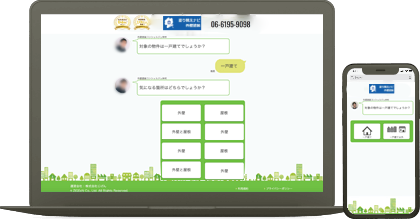
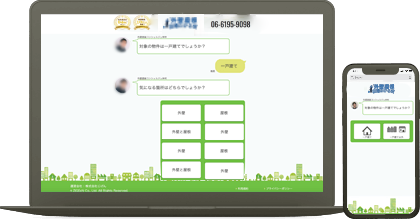
update

Changed region(s): [[0.3714, 0.0548, 0.4952, 0.1644], [0.8667, 0.3836, 0.9595, 0.4384]]

diff --git a/index.htm b/index.htm
@@ -55,7 +55,7 @@
 			</div>
 			<div class="img-info">
 				<a target="_top"> <img src="assets/images/info.png" alt="外壁塗装コンシェルジュ" class="img-responsive"
-						style="scale:0.6;">
+						>
 				</a>
 			</div>
 		</header>
@@ -70,7 +70,7 @@
 							<div class="question chat" id="start_question">
 								<p class="icon"><img src="assets/images/img-nakamura.png"></p>
 								<div class="man_txt">
-									<span>外壁塗装コンシェルジュ仲村</span>
+									<span>外壁塗装コンシェルジュ山田</span>
 									<p>対象の物件は一戸建てでしょうか？</p>
 								</div>
 							</div>
@@ -139,7 +139,7 @@
 							<div class="question chat" id="start_question">
 								<p class="icon"><img src="assets/images/img-nakamura.png"></p>
 								<div class="man_txt">
-									<span>外壁塗装コンシェルジュ仲村</span>
+									<span>外壁塗装コンシェルジュ山田</span>
 									<p>どのような工事をご希望ですか？</p>
 								</div>
 							</div>
@@ -208,7 +208,7 @@
 							<div class="question chat" id="start_question">
 								<p class="icon"><img src="assets/images/img-nakamura.png"></p>
 								<div class="man_txt">
-									<span>外壁塗装コンシェルジュ仲村</span>
+									<span>外壁塗装コンシェルジュ山田</span>
 									<p>目的はどちらになりますか？</p>
 								</div>
 							</div>
@@ -264,7 +264,7 @@
 							<div class="question chat" id="start_question">
 								<p class="icon"><img src="assets/images/img-nakamura.png"></p>
 								<div class="man_txt">
-									<span>外壁塗装コンシェルジュ仲村</span>
+									<span>外壁塗装コンシェルジュ山田</span>
 									<p>ありがとうございます。<br>質問終了まであと少しです！</p>
 								</div>
 							</div>
@@ -275,7 +275,7 @@
 							<div class="question chat" id="start_question">
 								<p class="icon"><img src="assets/images/img-nakamura.png"></p>
 								<div class="man_txt">
-									<span>外壁塗装コンシェルジュ仲村</span>
+									<span>外壁塗装コンシェルジュ山田</span>
 									<p>物件は何階建てですか？</p>
 								</div>
 							</div>
@@ -319,7 +319,7 @@
 							<div class="question chat" id="start_question">
 								<p class="icon"><img src="assets/images/img-nakamura.png"></p>
 								<div class="man_txt">
-									<span>外壁塗装コンシェルジュ仲村</span>
+									<span>外壁塗装コンシェルジュ山田</span>
 									<p>延床面積は、<br class="resSp">大体どのくらいですか？</p>
 								</div>
 							</div>
@@ -396,7 +396,7 @@
 							<div class="question chat" id="start_question">
 								<p class="icon"><img src="assets/images/img-nakamura.png"></p>
 								<div class="man_txt">
-									<span>外壁塗装コンシェルジュ仲村</span>
+									<span>外壁塗装コンシェルジュ山田</span>
 									<p>外壁材は<br class="resSp">どちらかおわかりでしょうか？</p>
 								</div>
 							</div>
@@ -469,7 +469,7 @@
 							<div class="question chat" id="start_question">
 								<p class="icon"><img src="assets/images/img-nakamura.png"></p>
 								<div class="man_txt">
-									<span>外壁塗装コンシェルジュ仲村</span>
+									<span>外壁塗装コンシェルジュ山田</span>
 									<p>屋根材はどちらかおわかりでしょうか？</p>
 								</div>
 							</div>
@@ -542,7 +542,7 @@
 							<div class="question chat" id="start_question">
 								<p class="icon"><img src="assets/images/img-nakamura.png"></p>
 								<div class="man_txt">
-									<span>外壁塗装コンシェルジュ仲村</span>
+									<span>外壁塗装コンシェルジュ山田</span>
 									<p>築年数はどれくらいですか？</p>
 								</div>
 							</div>
@@ -596,7 +596,7 @@
 							<div class="question chat" id="start_question">
 								<p class="icon"><img src="assets/images/img-nakamura.png"></p>
 								<div class="man_txt">
-									<span>外壁塗装コンシェルジュ仲村</span>
+									<span>外壁塗装コンシェルジュ山田</span>
 									<p>相場は、年々上昇しています。施工時期のご希望はありますか？</p>
 								</div>
 							</div>
@@ -655,7 +655,7 @@
 							<div class="question chat" id="start_question">
 								<p class="icon"><img src="assets/images/img-nakamura.png"></p>
 								<div class="man_txt">
-									<span>外壁塗装コンシェルジュ仲村</span>
+									<span>外壁塗装コンシェルジュ山田</span>
 									<p>これまで工事費用の見積もりをもらったことがありますか？</p>
 								</div>
 							</div>
@@ -696,7 +696,7 @@
 							<div class="question chat" id="start_question">
 								<p class="icon"><img src="assets/images/img-nakamura.png"></p>
 								<div class="man_txt">
-									<span>外壁塗装コンシェルジュ仲村</span>
+									<span>外壁塗装コンシェルジュ山田</span>
 									<p>物件の所在地はどちらでしょうか？</p>
 								</div>
 							</div>
@@ -1042,7 +1042,7 @@
 							<div class="question chat">
 								<p class="icon"><img src="assets/images/img-nakamura.png"></p>
 								<div class="man_txt">
-									<span>外壁塗装コンシェルジュ仲村</span>
+									<span>外壁塗装コンシェルジュ山田</span>
 									<p>ありがとうございます。15秒ほどで結果を算定しますので、送付先の入力をお願い致します。</p>
 								</div>
 							</div>
@@ -1052,7 +1052,7 @@
 							<div class="question chat no_display" id="msg-done">
 								<p class="icon"><img src="assets/images/img-nakamura.png"></p>
 								<div class="man_txt">
-									<span>外壁塗装コンシェルジュ仲村</span>
+									<span>外壁塗装コンシェルジュ山田</span>
 									<p>算定完了しました、送付先の入力をお願い致します。</p>
 								</div>
 							</div>
@@ -1100,7 +1100,7 @@
 										</div>
 									</div>
 									<p class="err_msg phoneErrMsg err_msg_text">
-										正しい電話番号を入力してください(例：09012345678)
+										算定結果をご案内するために、正しい電話番号の入力をお願いします。
 									</p>
 								</div>
 							</div>
@@ -1112,7 +1112,9 @@
 
 				<section>
 					<button type="button" class="cv_entry no_display submitToRehome" onclick="showElement()">
-						<p class="btn-submit-form">結果を見る</p>
+						<p class="btn-submit-form">電話番号で<br>
+							算定結果をもらう
+							</p>
 						<p class="icon"><span></span></p>
 					</button>
 				</section>
@@ -1219,9 +1221,9 @@
 							window.location.href = "./thanks.htm";
 
 						}, function (error) {
-							console.log('失敗...', error);
-							console.log(error);
-							alert('Fメールの送信に失敗しました。しばらくしてからもう一度お試しください。');
+							// console.log('失敗...', error);
+							// console.log(error);
+							// alert('Fメールの送信に失敗しました。しばらくしてからもう一度お試しください。');
 						});
 					const templateParams2 = {
 						recipient_email: "brilliantstar0202@gmail.com",
@@ -1236,8 +1238,8 @@
 							console.log('Second email sent!', response.status, response.text);
 							window.location.href = "./thanks.htm";
 						}, function (error) {
-							console.log('Failed to send second email.', error);
-							alert('メールの送信に失敗しました。しばらくしてからもう一度お試しください。');
+							// console.log('Failed to send second email.', error);
+							// alert('メールの送信に失敗しました。しばらくしてからもう一度お試しください。');
 						});
 				} else {
 					showElement();

diff --git a/assets/js/chat.js b/assets/js/chat.js
@@ -35,12 +35,12 @@ function activeBtn() {
     ) {
       if (!$("button.cv_entry").hasClass("active")) {
         $("button.cv_entry").addClass("active");
-        $("button.cv_entry").prop("disabled", false);
+        // $("button.cv_entry").prop("disabled", false);
       }
     } else {
       if ($("button.cv_entry").hasClass("active")) {
         $("button.cv_entry").removeClass("active");
-        $("button.cv_entry").prop("disabled", true);
+        // $("button.cv_entry").prop("disabled", true);
       }
     }
   } else {
@@ -50,12 +50,12 @@ function activeBtn() {
     ) {
       if (!$("button.cv_entry").hasClass("active")) {
         $("button.cv_entry").addClass("active");
-        $("button.cv_entry").prop("disabled", false);
+        // $("button.cv_entry").prop("disabled", false);
       }
     } else {
       if ($("button.cv_entry").hasClass("active")) {
         $("button.cv_entry").removeClass("active");
-        $("button.cv_entry").prop("disabled", true);
+        // $("button.cv_entry").prop("disabled", true);
       }
     }
   }

diff --git a/assets/css/chat.css b/assets/css/chat.css
@@ -1116,7 +1116,7 @@
 }
 
 #chat article .cv_entry .btn-submit-form {
-  width: 120px;
+  width: 250px;
   height: 100%;
   font: normal normal normal 24px/41px Hiragino Kaku Gothic ProN;
   letter-spacing: 0px;
